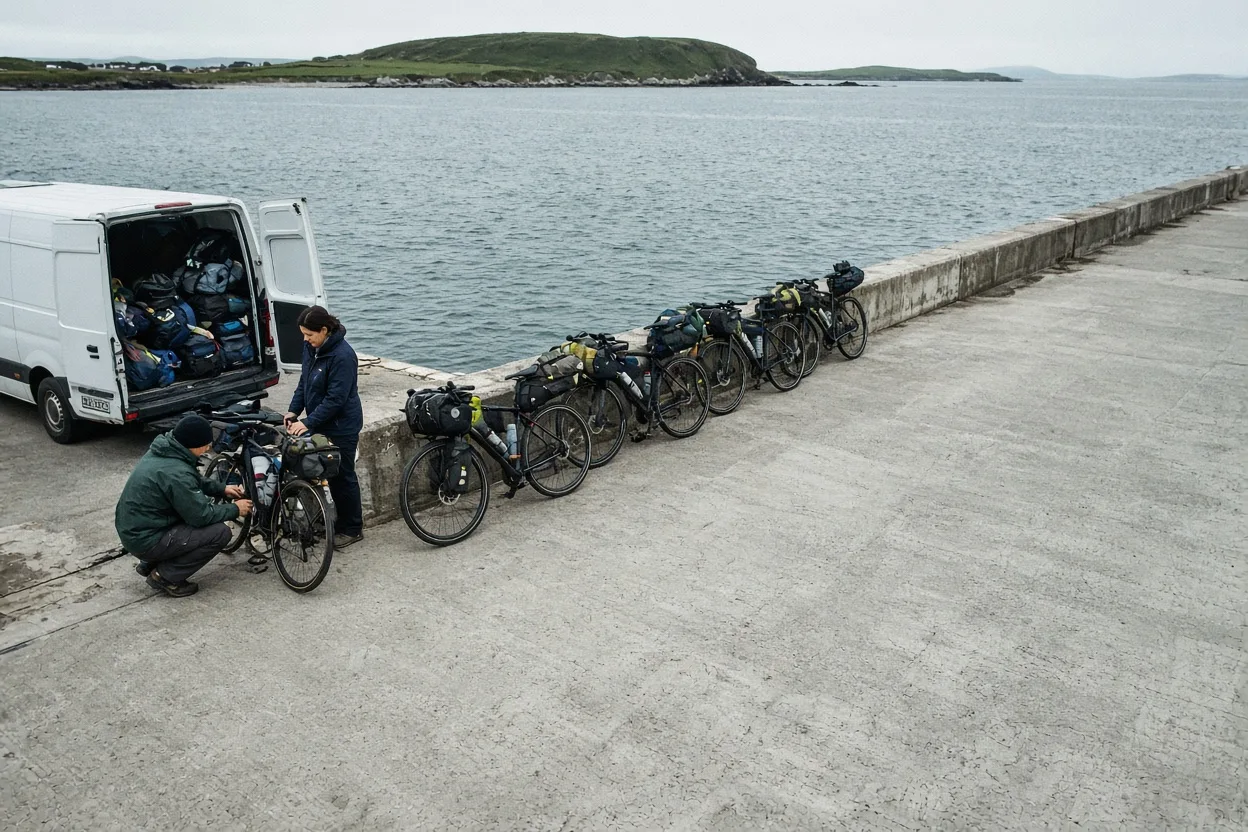
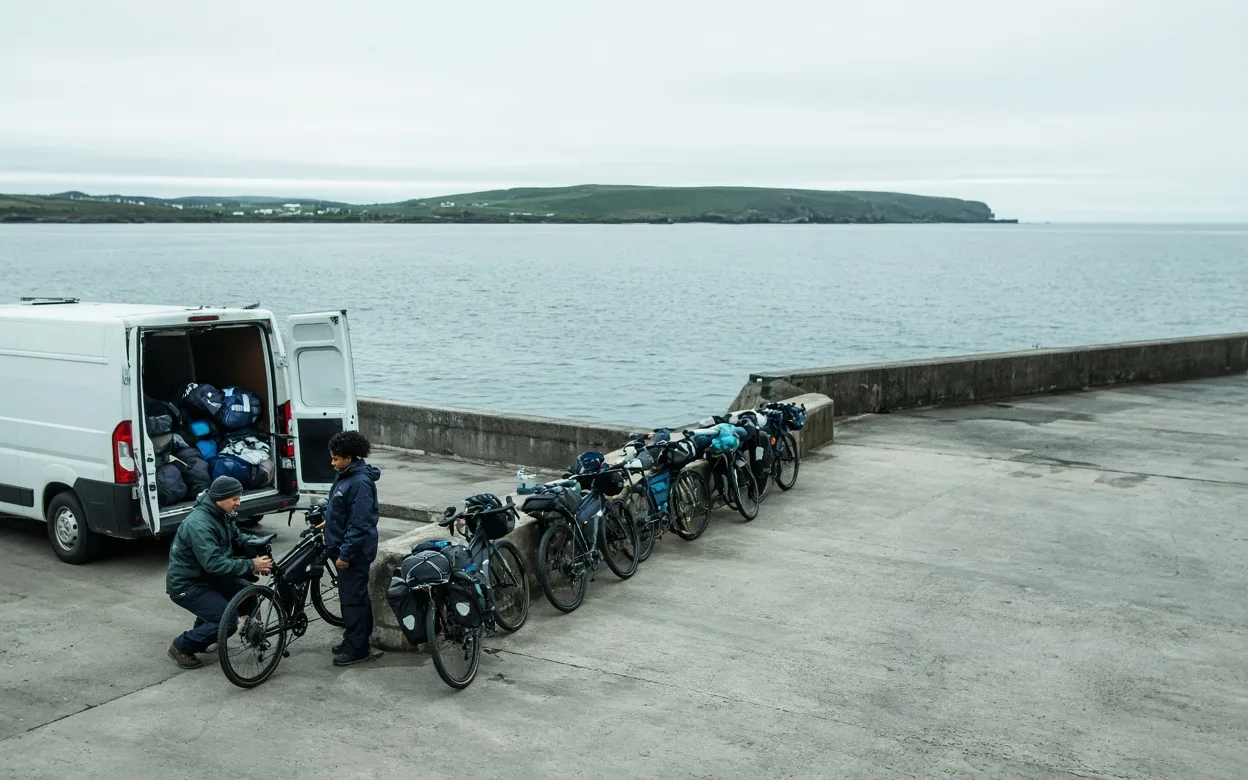
rinrin-cycletours: stage 2 fix (hero reshoot with sky, readability gradients, copy, footer outline submit)

diff --git a/themes/rinrin-cycletours/style.css b/themes/rinrin-cycletours/style.css
@@ -81,10 +81,10 @@ body:not(:has(.rc-hero, .rc-single-hero)) .rc-head .rc-nav .wp-block-navigation-
 /* ==== H1 Quay hero: full-bleed photo, tall vertical headline lower right, four-line catch at the left ==== */
 .rc-hero { position: relative; min-height: clamp(640px, 100svh, 1000px); margin: 0; overflow: clip; color: #fff; background: var(--wp--preset--color--slate); }
 .rc-hero__img { position: absolute; inset: 0; margin: 0; }
-.rc-hero__img img { width: 100%; height: 100%; object-fit: cover; object-position: 50% 30%; }
-.rc-hero::before { content: ""; position: absolute; inset: 0; z-index: 1; pointer-events: none; background: linear-gradient(to bottom, rgba(27, 36, 32, .38), rgba(27, 36, 32, 0) 24%), linear-gradient(to left, rgba(27, 36, 32, .38), rgba(27, 36, 32, 0) 42%), linear-gradient(to top right, rgba(27, 36, 32, .4), rgba(27, 36, 32, 0) 38%); }
+.rc-hero__img img { width: 100%; height: 100%; object-fit: cover; object-position: 50% 20%; }
+.rc-hero::before { content: ""; position: absolute; inset: 0; z-index: 1; pointer-events: none; background: linear-gradient(to bottom, rgba(27, 36, 32, .5), rgba(27, 36, 32, 0) 30%), linear-gradient(to left, rgba(27, 36, 32, .38), rgba(27, 36, 32, 0) 42%), linear-gradient(to top right, rgba(27, 36, 32, .4), rgba(27, 36, 32, 0) 38%); }
 .rc-hero__inner { position: absolute; inset: 0; z-index: 2; }
-.rc-hero__catch { position: absolute; left: 5.5%; bottom: 9%; max-width: 380px; margin: 0; font-size: 1rem; line-height: 1.8; letter-spacing: .1em; color: #fff; }
+.rc-hero__catch { position: absolute; left: 58%; bottom: 6%; max-width: 340px; margin: 0; font-size: 1rem; line-height: 1.8; letter-spacing: .1em; color: #fff; }
 .rc-hero .rc-hero__title { position: absolute; right: 2.5%; top: 18%; bottom: 4%; margin: 0; writing-mode: vertical-rl; font-size: clamp(2.75rem, 4.2vw, 4.5rem); font-weight: 300; line-height: 1.15; letter-spacing: .04em; word-spacing: .2em; color: #fff; -webkit-mask-image: linear-gradient(to bottom, #000 60%, rgba(0, 0, 0, .7)); mask-image: linear-gradient(to bottom, #000 60%, rgba(0, 0, 0, .7)); }
 .rc-hero__col { display: block; }
 .rc-hero__scroll { position: absolute; left: 2.5%; bottom: 24px; width: 1px; height: 40px; background: #fff; }
@@ -95,6 +95,7 @@ body:not(:has(.rc-hero, .rc-single-hero)) .rc-head .rc-nav .wp-block-navigation-
 	.rc-hero .rc-hero__title { position: static; writing-mode: horizontal-tb; font-size: 2.75rem; line-height: 1.15; max-width: 90vw; -webkit-mask-image: none; mask-image: none; }
 	.rc-hero__col { display: inline-block; margin-right: .25em; }
 	.rc-hero__scroll { display: none; }
+	.rc-hero::after { content: ""; position: absolute; inset: auto 0 0 0; height: 62%; z-index: 1; pointer-events: none; background: linear-gradient(to top, rgba(27, 36, 32, .72), rgba(27, 36, 32, 0)); }
 }
 @media (min-width: 782px) and (max-width: 1023px) { .rc-hero .rc-hero__title { font-size: 3.5rem; } }
 @media (min-width: 1024px) and (max-width: 1179px) { .rc-hero__img img { width: 118%; max-width: none; margin-left: -18%; } .rc-hero__catch { left: 40%; bottom: 12%; max-width: 270px; } .rc-hero .rc-hero__title { right: 1.5%; font-size: 2.25rem; } }
@@ -145,7 +146,7 @@ body:not(:has(.rc-hero, .rc-single-hero)) .rc-head .rc-nav .wp-block-navigation-
 .rc-card__img { height: 100%; }
 .rc-card__img img { height: 100%; object-fit: cover; transition: transform .5s var(--rc-ease); }
 .rc-card:hover .rc-card__img img { transform: scale(1.04); }
-.rc-card__num { position: absolute; top: -.35rem; left: -.15rem; z-index: 2; margin: 0; font: 300 4.5rem/1 var(--wp--preset--font-family--display); color: rgba(0, 85, 46, .12); pointer-events: none; }
+.rc-card__num { position: absolute; top: -.35rem; left: -.15rem; z-index: 2; margin: 0; font: 300 4.5rem/1 var(--wp--preset--font-family--display); color: rgba(0, 85, 46, .2); pointer-events: none; }
 .rc-card__media { position: relative; }
 .rc-card .rc-card__name { margin: 1.25rem 0 .25rem; font: 600 var(--wp--preset--font-size--medium)/1.4 var(--wp--preset--font-family--display); }
 .rc-card__txt { margin: 0 0 1rem; font-size: .9375rem; line-height: 1.7; color: var(--wp--preset--color--slate); }
@@ -187,7 +188,7 @@ body:not(:has(.rc-hero, .rc-single-hero)) .rc-head .rc-nav .wp-block-navigation-
 .rc-sstrip { position: relative; min-height: max(560px, 80svh); overflow: clip; color: #fff; --sp-par: 10%; background: var(--wp--preset--color--slate); }
 .rc-sstrip__img { position: absolute; inset: 0; margin: 0; }
 .rc-sstrip__img img { width: 100%; height: 100%; object-fit: cover; }
-.rc-sstrip::before { content: ""; position: absolute; inset: 0; z-index: 1; background: rgba(27, 36, 32, .3); pointer-events: none; }
+.rc-sstrip::before { content: ""; position: absolute; inset: 0; z-index: 1; background: linear-gradient(to top, rgba(27, 36, 32, .5), rgba(27, 36, 32, 0) 55%), linear-gradient(to right, rgba(27, 36, 32, 0) 30%, rgba(27, 36, 32, .38) 50%, rgba(27, 36, 32, 0) 70%), linear-gradient(to left, rgba(27, 36, 32, .45), rgba(27, 36, 32, 0) 34%), rgba(27, 36, 32, .22); pointer-events: none; }
 .rc-sstrip__inner { position: absolute; inset: 0; z-index: 2; display: flex; flex-direction: column; align-items: center; justify-content: center; gap: 1.5rem; padding: 0 24px; }
 .rc-sstrip .rc-sstrip__cap { margin: 0; writing-mode: vertical-rl; font: 300 2.25rem/1.3 var(--wp--preset--font-family--display); letter-spacing: .08em; color: #fff; }
 .rc-sstrip__sub { text-shadow: 0 1px 12px rgba(27, 36, 32, .5); margin: 0; max-width: 420px; text-align: center; font-size: .9375rem; line-height: 1.7; color: #fff; }
@@ -304,3 +305,7 @@ body:not(:has(.rc-hero, .rc-single-hero)) .rc-head .rc-nav .wp-block-navigation-
 :is(:lang(zh), :lang(ja)) .rc-hero .rc-hero__title { font-size: clamp(2.25rem, 4vw, 3.75rem); }
 :is(:lang(zh), :lang(ja)) :is(em, i, cite) { font-style: normal; }
 :is(:lang(fr), :lang(de)) :is(p, li, h1, h2, h3, h4) { hyphens: auto; overflow-wrap: break-word; }
+
+/* footer newsletter submit: outline pill, so the only solid pill on the page is Book */
+.rc-foot .sp-newsletter-fallback :is(button[type="submit"], input[type="submit"]) { background: transparent; color: var(--wp--preset--color--ink); border: 1px solid var(--wp--preset--color--ink); border-radius: 999px; }
+.rc-foot .sp-newsletter-fallback :is(button[type="submit"], input[type="submit"]):hover { background: var(--wp--preset--color--ink); color: var(--wp--preset--color--white); }

diff --git a/themes/rinrin-cycletours/inc/i18n/en.php b/themes/rinrin-cycletours/inc/i18n/en.php
@@ -12,7 +12,7 @@ return array(
 	'alt_about_guests' => 'Four guests sitting on a harbour wall drinking coffee with their bicycles nearby.',
 	'alt_about_hands' => 'A guide\'s hands tightening a bicycle seat clamp with a tool beside a guest.',
 	'alt_band_road' => 'Eight cyclists riding single file on a coast road followed by a support van.',
-	'alt_hero_quay' => 'Eight bicycles parked along a harbour wall next to an open white support van.',
+	'alt_hero_quay' => 'A support van with its rear door open and eight loaded touring bicycles lined up along a harbour wall under a pale sky.',
 	'alt_strip_bikes' => 'A bicycle mechanic inspecting a wheel beside rows of touring bikes in a workshop.',
 	'alt_strip_van' => 'A driver loading travel duffel bags into the back of a white support van.',
 	'alt_tour_cliff' => 'Three cyclists pedalling up a paved switchback road climbing high green coastal cliffs.',
@@ -21,8 +21,8 @@ return array(
 	'alt_tour_longcoast' => 'A group of cyclists riding past low stone cottages in a quiet coastal village.',
 	'alt_tour_marsh' => 'Bicycle riders crossing an open coastal causeway through tidal salt marsh at low tide.',
 	'band_ghost' => 'coast',
-	'band_h' => 'A riding day',
-	'band_label' => '(Daily routine)',
+	'band_h' => 'From quay to quay',
+	'band_label' => '(A riding day)',
 	'band_p' => 'Every day on the road follows a calm, dependable cadence that keeps riding unhurried and the logistics effortless. We cover each stage at an even tempo, with time left for the view, a warm café lunch and a slow evening in harbour.',
 	'band_t1' => '08:30',
 	'band_t2' => '09:00',

diff --git a/themes/rinrin-cycletours/README.md b/themes/rinrin-cycletours/README.md
@@ -1,6 +1,6 @@
 # Rinrin Cycle Tours
 
-Theme for a guided coast cycling operator. Home: full-bleed quay hero with a tall vertical headline, About on a blurred photograph with two edge-flush photos, a sideways scroll-snap strip of five tour spec cards, a framed "riding day" band, two stacked photograph strips, a grade ledger, one way to book and a journal. Fonts: Sora and Manrope. Brand and design notes in `brand.md` and `brand/`.
+Theme for a guided coast cycling operator. Home: full-bleed quay hero with a tall vertical headline, About on a blurred photograph with two edge-flush photos, a sideways scroll-snap strip of five tour spec cards, a framed "A riding day" band ("From quay to quay"), two stacked photograph strips, a grade ledger, one way to book and a journal. Fonts: Sora and Manrope. Brand and design notes in `brand.md` and `brand/`.
 
 ## Status
-Stage 1 delivers the English home page. Inner pages (stubs for now), the journal and the zh-TW, ja, fr and de localisations follow in stage 2.
+Stage 1 delivered the English home page; the stage 2 fix pass regenerated the hero photograph (pale sky across the top quarter, muted teal-green cast), added readability gradients, set the ghost numerals to 20% and made the footer Subscribe an outline pill. Inner pages, the journal and the zh-TW, ja, fr and de localisations follow in stage 2.
